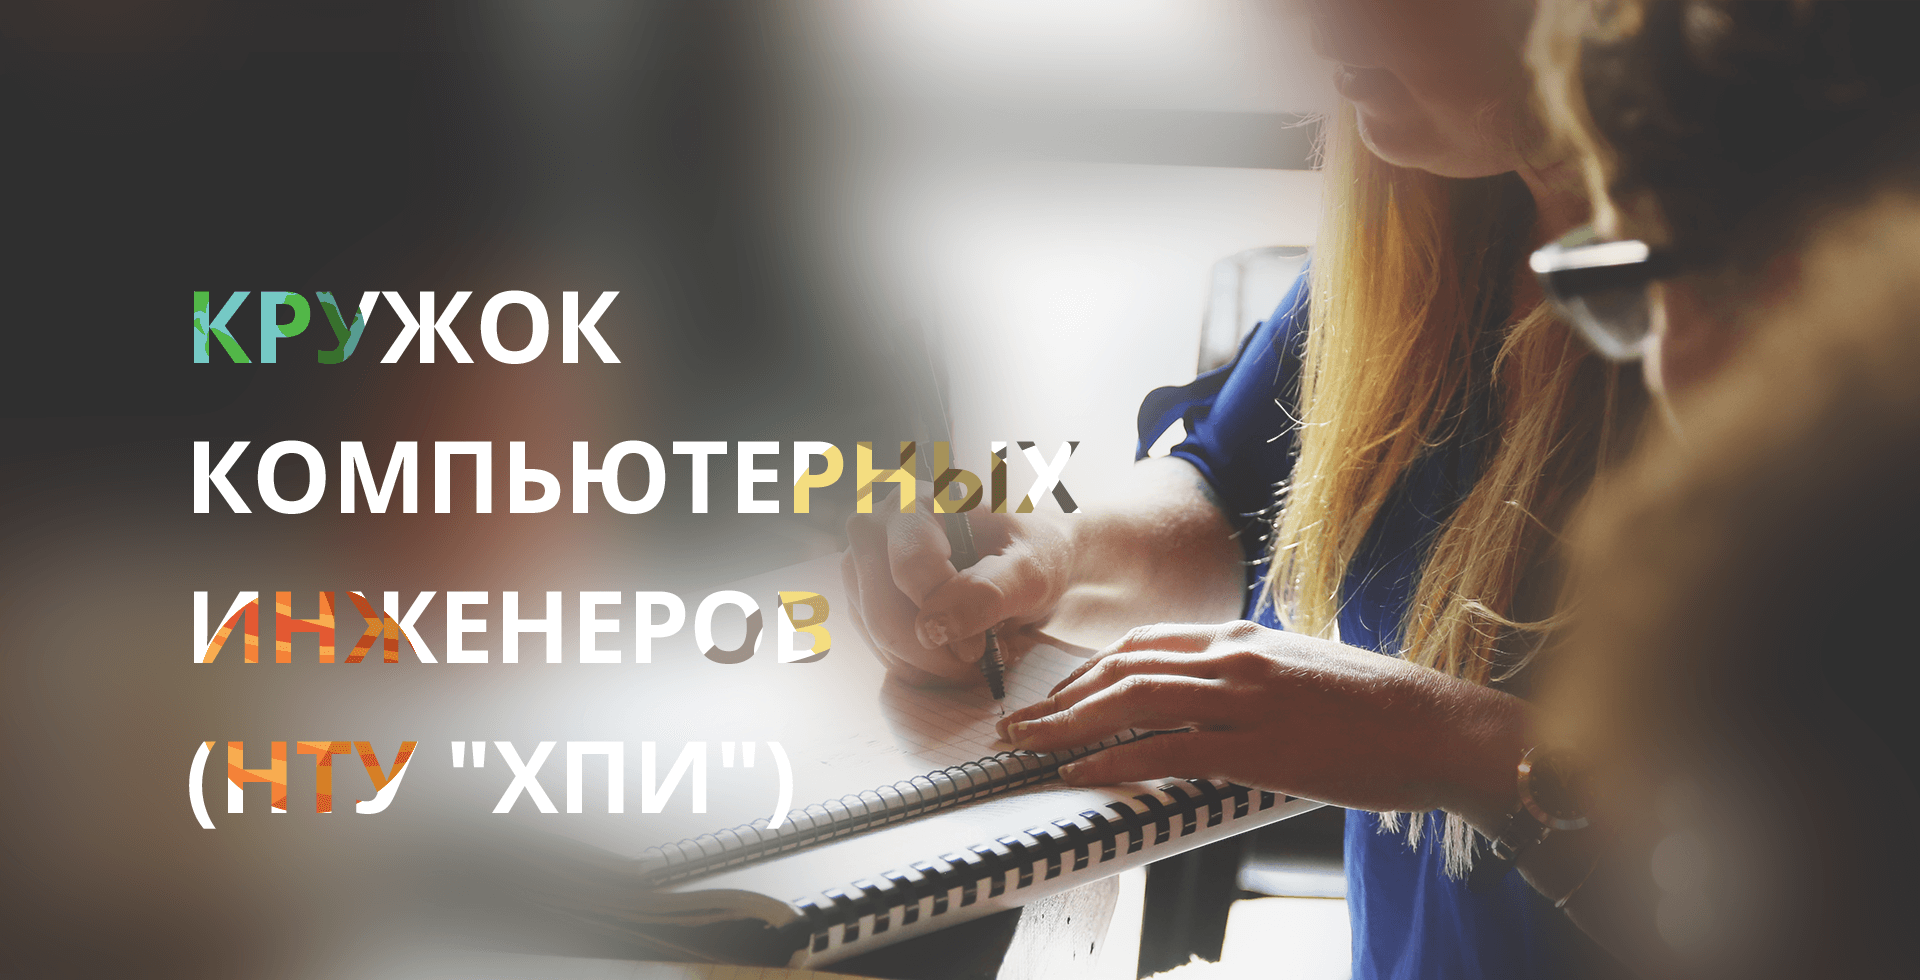
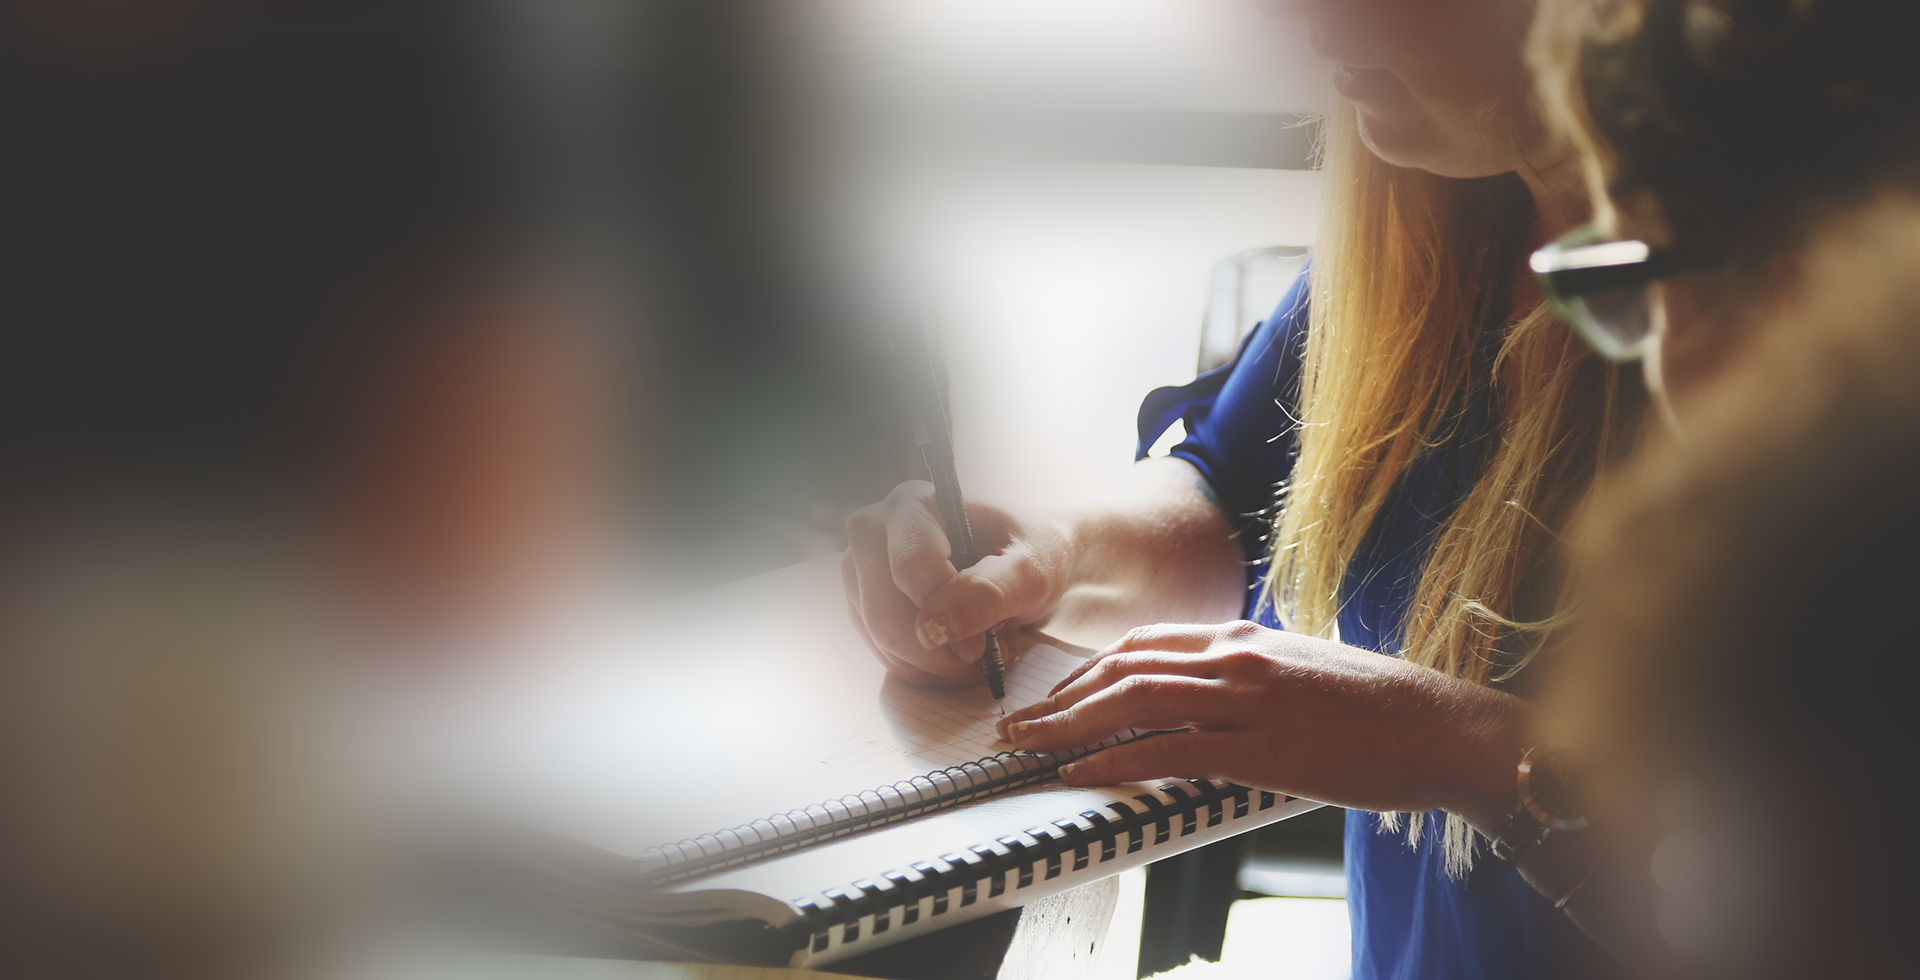
Fixed header.

diff --git a/css/style.css b/css/style.css
@@ -75,6 +75,23 @@ header > nav > button > span {
     margin: 4px 0;
 }
 
+.header-text {
+    color: #fff;
+    position: absolute;
+    font-family: OpenSans;
+    font-weight: bold;
+    top: 13vw;
+    left: 9%;
+    font-size: 5.2vw;
+    line-height: 1.41;
+    letter-spacing: -4px;
+}
+
+.background-header {
+    max-width: 100%;
+    width: 100%;
+}
+
 .nav-justified {
     width: 80% !important;
 }
@@ -87,11 +104,6 @@ header > nav > button > span {
     width: 100%;
     margin-bottom: 5px;
     text-align: center;
-}
-
-.background-header {
-    max-width: 100%;
-    width: 100%;
 }
 
 main h2 {
@@ -291,5 +303,12 @@ footer ul {
     }
     .nav-link {
         margin-bottom: 0;
+    }
+}
+
+/*@media (max-width: 1100px) {
+    .header-text {
+        font-size: 3.5rem;
+        top: 21%;
     }
 }

diff --git a/index.html b/index.html
@@ -30,6 +30,7 @@
             </ul>
             </nav>
         <img class="background-header" src="img/header-background.png" alt="background">
+        <div class="text-uppercase header-text">Кружок<br />компьютерных<br />инженеров<br />(НТУ "ХПИ")</div>
     </header>
     <main>
         <section class="about-programm" id="about">

diff --git a/css/media-query.css b/css/media-query.css
@@ -12,6 +12,11 @@ h2,
     font-size: 1.7rem !important;
 }
 
+.header-text {
+    letter-spacing: 0;
+    top: 18%;
+}
+
 .nav-link,
 .nav-link:hover {
     font-size: 1rem;
